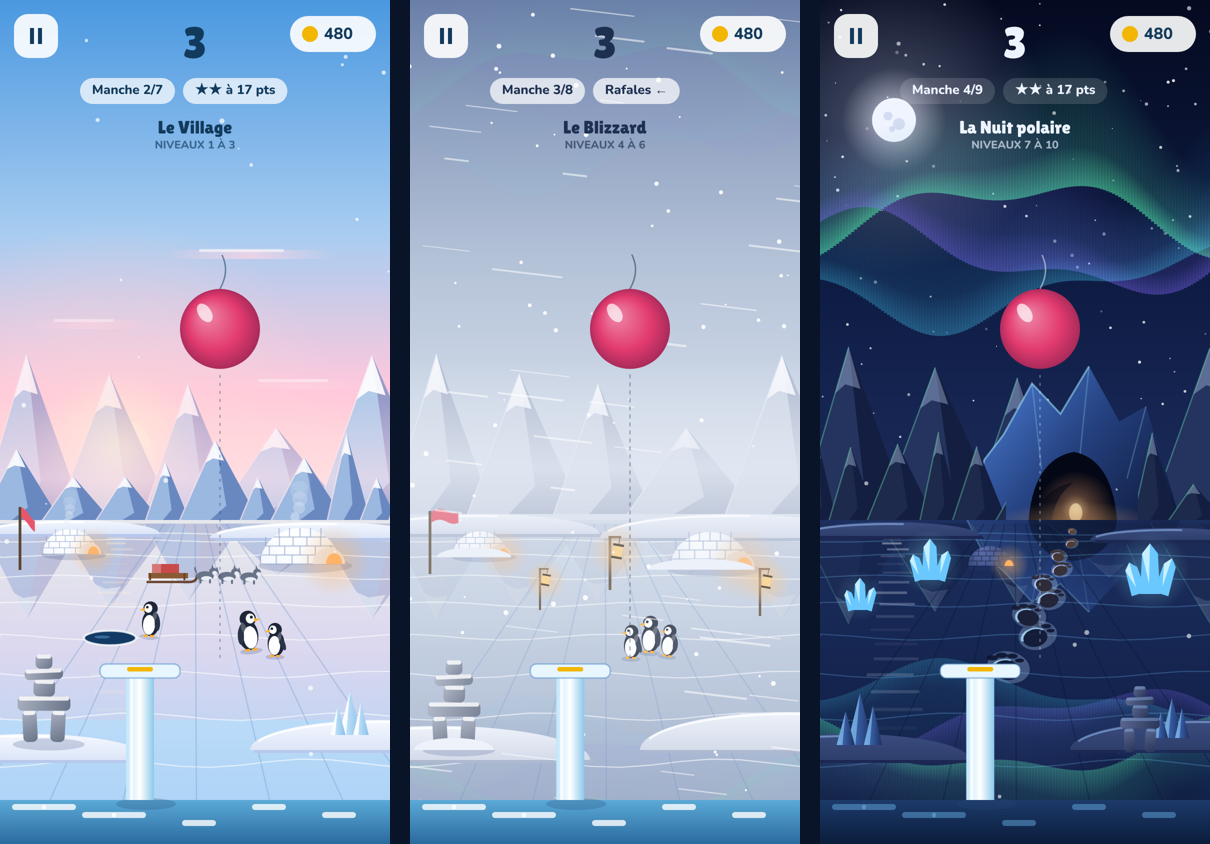
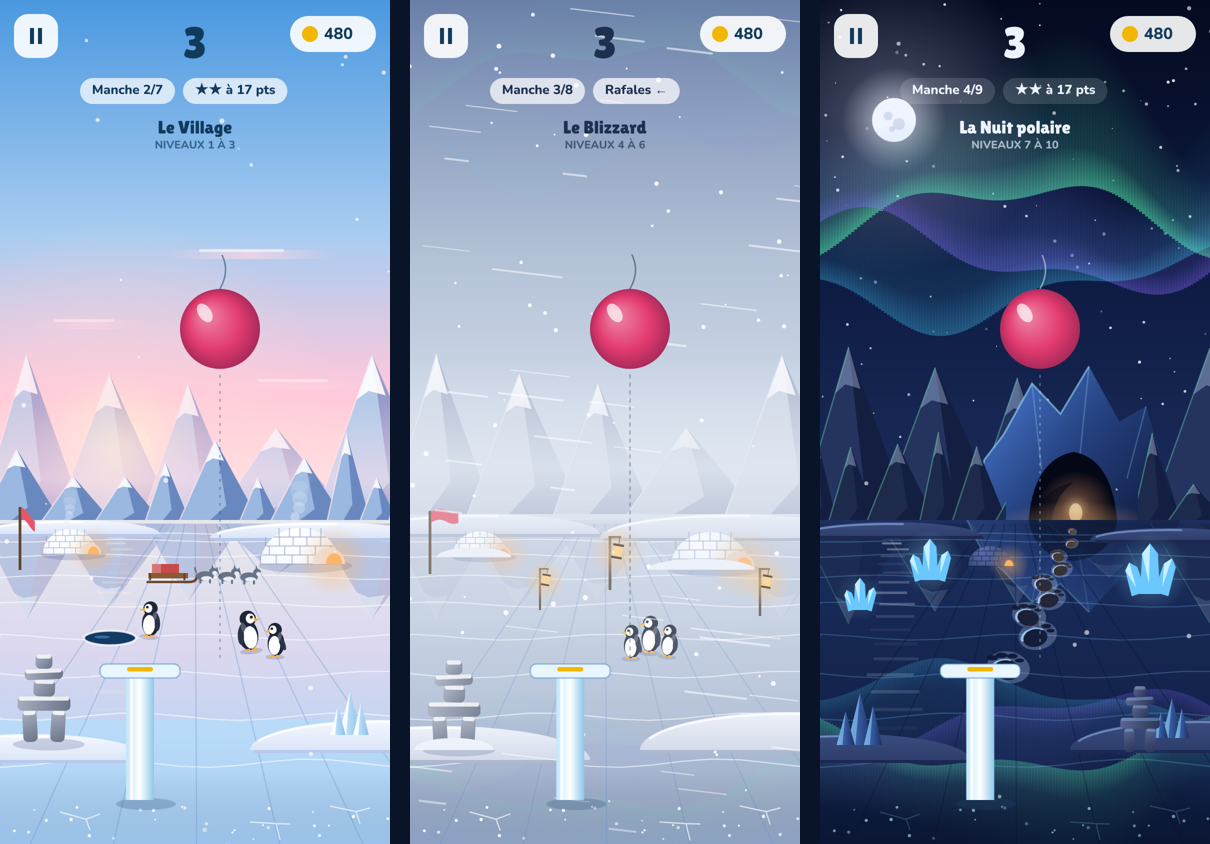
Monde 5 : plus d'eau sous la plateforme, la banquise continue jusqu'en bas
Claude-Session: https://claude.ai/code/session_01NEC92qwxswvqqiEaD4C6hh

Changed region(s): [[0.0, 0.9242, 1.0, 1.0]]

diff --git a/design/brouillons/2026-11-19-banquise-maquettes.html b/design/brouillons/2026-11-19-banquise-maquettes.html
@@ -217,8 +217,12 @@ function icePlat(x, y) {
   c.fillStyle = 'rgba(255,255,255,0.8)'; c.fillRect(x - 10, y + 6, 3, ICE - y - 6);
   c.fillStyle = '#e8f6ff'; c.beginPath(); c.roundRect(x - 40, y - 8, 80, 14, 6); c.fill(); c.strokeStyle = 'rgba(80,140,200,0.5)'; c.lineWidth = 1.5; c.stroke();
   c.fillStyle = '#f2b705'; c.beginPath(); c.roundRect(x - 13, y - 5, 26, 4.5, 2.25); c.fill(); }
-function water(t) { c.fillStyle = lg(ICE, H, [[0, ZN.night ? '#1c3a6a' : '#5aa9d6'], [1, ZN.night ? '#0a1c3a' : '#2a6a9e']]); c.fillRect(0, ICE, W, H - ICE);
-  c.fillStyle = ZN.night ? 'rgba(120,200,255,0.4)' : 'rgba(255,255,255,0.8)'; for (let i = 0; i < 8; i++) { const x = ((i * 70 + t * .3) % (W + 60)) - 30; c.beginPath(); c.roundRect(x, ICE + 4 + (i % 3) * 8, 34, 6, 3); c.fill(); } }
+function water(t) { /* plus d'eau : la banquise continue jusqu'en bas (glace épaisse, givre, petites congères) */
+  c.fillStyle = lg(ICE - 30, H, [[0, 'rgba(0,0,0,0)'], [1, ZN.night ? 'rgba(4,10,30,0.35)' : 'rgba(90,130,190,0.18)']]); c.fillRect(0, ICE - 30, W, H - ICE + 30);
+  c.strokeStyle = ZN.night ? 'rgba(140,210,255,0.22)' : 'rgba(255,255,255,0.7)'; c.lineWidth = 1.2;
+  for (const [x0, y0, a] of [[60, 812, .4], [250, 822, -.3], [330, 806, .2]]) { c.beginPath(); c.moveTo(x0, y0); c.lineTo(x0 + 26, y0 + 8 * a + 4); c.lineTo(x0 + 40, y0 + 2); c.moveTo(x0 + 26, y0 + 8 * a + 4); c.lineTo(x0 + 30, y0 + 18); c.stroke(); }
+  for (let i = 0; i < 26; i++) { const x = h1(i * 11) * W, y = ICE + 6 + h1(i * 7) * 36; c.fillStyle = ZN.night ? `rgba(160,220,255,${(.3 + .4 * Math.abs(Math.sin(t * .05 + i))).toFixed(3)})` : `rgba(255,255,255,${(.5 + .5 * Math.abs(Math.sin(t * .05 + i))).toFixed(3)})`; c.beginPath(); c.arc(x, y, .9 + h1(i) * .8, 0, TAU); c.fill(); }
+}
 function balloon(x, y, r, col, t) { y += Math.sin(t * .05) * 2;
   c.strokeStyle = rgba(ZN.ink, .55); c.lineWidth = 1.4; c.beginPath(); c.moveTo(x, y - r); c.quadraticCurveTo(x + 10, y - r - 18, x + 2, y - r - 34); c.stroke();
   const g = c.createRadialGradient(x - r * .35, y - r * .35, r * .1, x, y, r * 1.05); g.addColorStop(0, mix(col, '#ffffff', .35)); g.addColorStop(.6, col); g.addColorStop(1, mix(col, '#2a0a30', .35));
